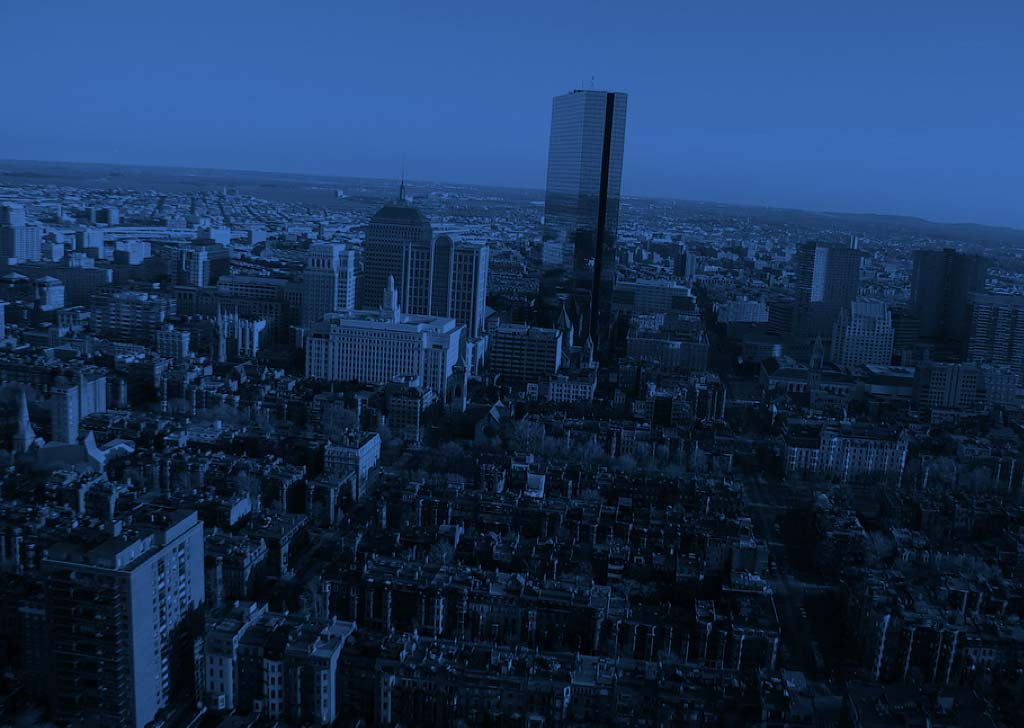
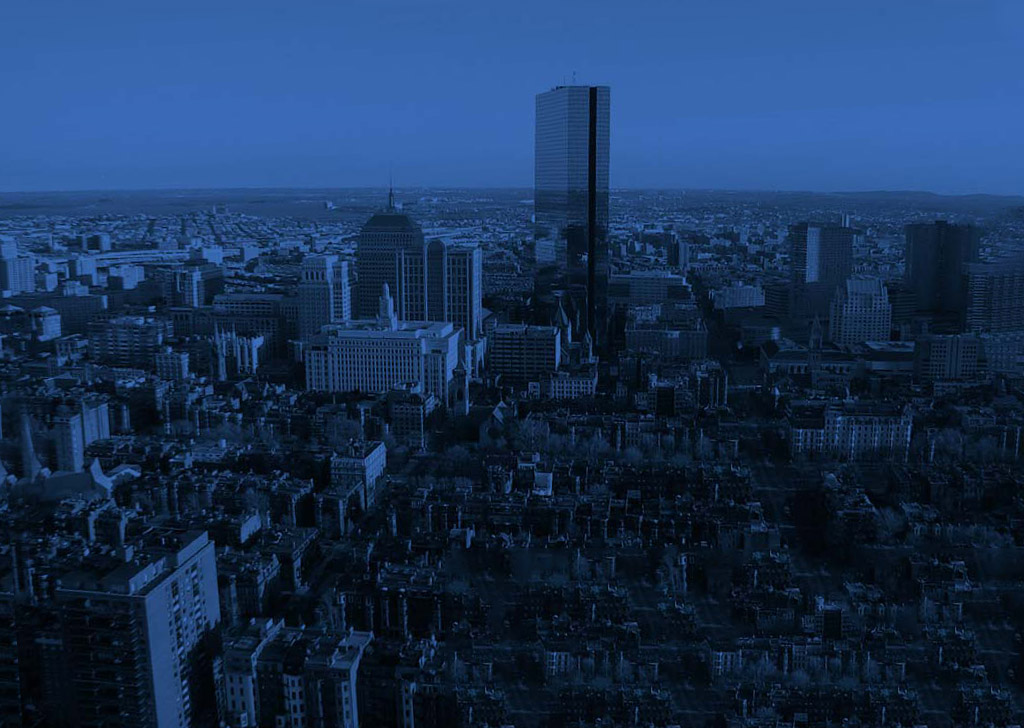
fixing skyline, fixing widows in section header

Changed region(s): [[0.0, 0.0907, 1.0, 1.0], [0.0, 0.8764, 0.0625, 0.9066], [0.8125, 0.9973, 0.8438, 1.0]]

diff --git a/html/js/main.js b/html/js/main.js
@@ -136,7 +136,8 @@ $(function() {
             }), $(this).attr("href", "../img/logos/" + image), Modernizr.adownload || $(this).attr("target", "_blank");
         });
     }, loadTheLogos = setInterval(function() {
-        scrollDistance() > $(".downloads").offset().top && (loadLogos(), clearInterval(loadTheLogos));
+        $(".press").length <= 0 && scrollDistance() > $(".downloads").offset().top && (loadLogos(), 
+        clearInterval(loadTheLogos));
     }, 50);
     $(".mayor .flickr").on("click", function() {
         window.open("https://www.flickr.com/people/bosmayorsoffice/", "_blank");

diff --git a/html/stylesheets/screen.css b/html/stylesheets/screen.css
@@ -242,7 +242,7 @@ p {
 }
 /* line 181, ../../build/sass/partials/_base.scss */
 .section-intro p {
-  max-width: 520px;
+  max-width: 540px;
   margin: 0 auto;
   line-height: 1.7;
 }
@@ -1421,7 +1421,7 @@ img {
 .intro {
   min-height: 500px;
   height: calc(100vh - 64px);
-  background-image: url('../img/skyline.jpg?1428593596');
+  background-image: url('../img/skyline.jpg?1428864040');
   background-size: cover;
   margin-top: 64px;
   position: relative;

diff --git a/build/js/main.js b/build/js/main.js
@@ -328,9 +328,11 @@ $(function(){
     };
 
     var loadTheLogos = setInterval(function(){
-        if(scrollDistance() > $('.downloads').offset().top){
-            loadLogos();
-            clearInterval(loadTheLogos);
+        if( $('.press').length <= 0){
+            if(scrollDistance() > $('.downloads').offset().top){
+                loadLogos();
+                clearInterval(loadTheLogos);
+            }
         }
     },50);
 

diff --git a/build/sass/partials/_base.scss b/build/sass/partials/_base.scss
@@ -179,7 +179,7 @@ p{
         display:block;
     }
     p{
-        max-width:520px;
+        max-width:540px;
         margin:0 auto;
         line-height:1.7;
     }
